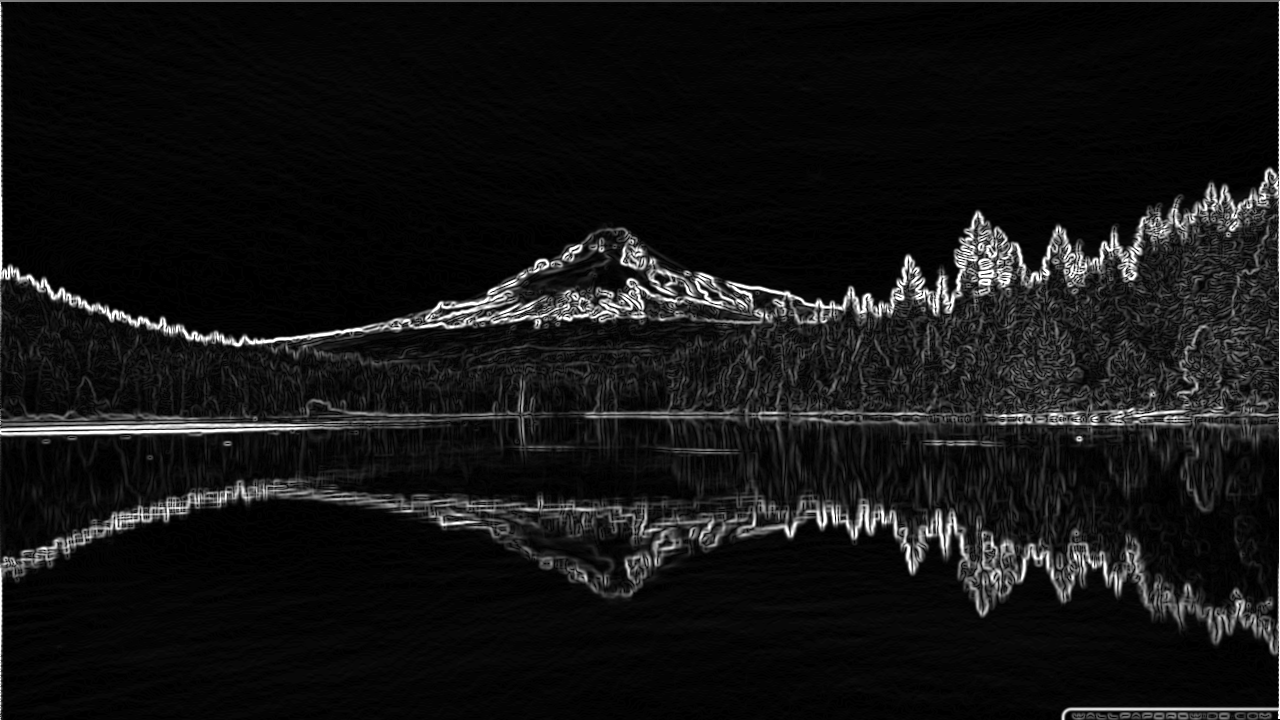
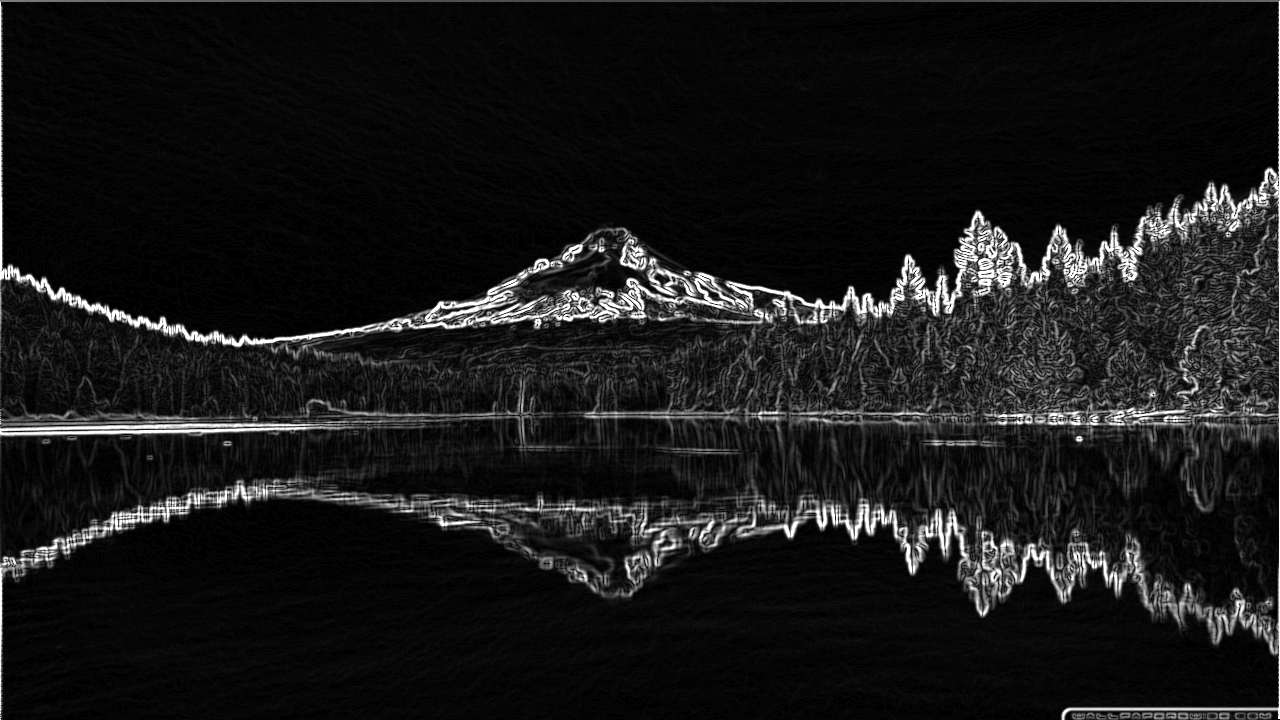
Add optmization code

diff --git a/hls-canny/canny.cpp b/hls-canny/canny.cpp
@@ -200,8 +200,8 @@ void Sobel(pixel_stream &src, pixel_stream &dst)
 
 		// Perform convolution
 		// Final pixel value
-		uint32_t h_pixel = 0;
-		uint32_t v_pixel = 0;
+		int32_t h_pixel = 0;
+		int32_t v_pixel = 0;
 		uint32_t _pixel = 0;
 		// Perform the multiplication step
 		for (int i = 0; i < SOBEL_KERNEL_SIZE; i++)
@@ -227,7 +227,10 @@ void Sobel(pixel_stream &src, pixel_stream &dst)
 			}
 		}
 
-		_pixel = hls::sqrt(float(h_pixel * h_pixel + v_pixel * v_pixel));
+		// Correct
+		// _pixel = hls::sqrt(h_pixel * h_pixel + v_pixel * v_pixel);
+		// Optimized: uses approximations
+		_pixel = hls::abs(h_pixel) + hls::abs(v_pixel);
 
 		if (_pixel > 255)
 		{
